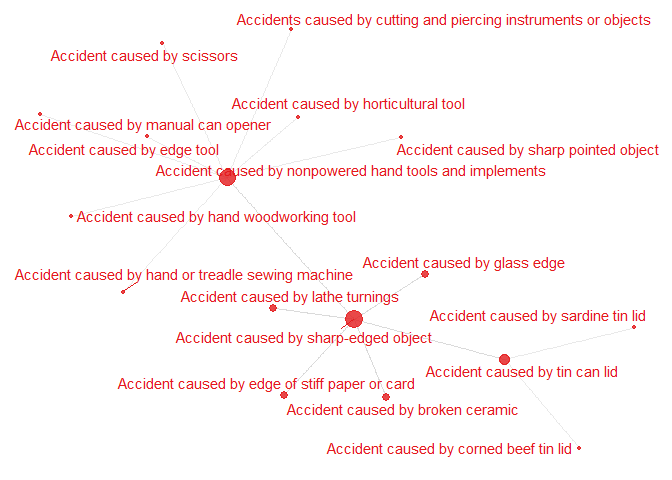
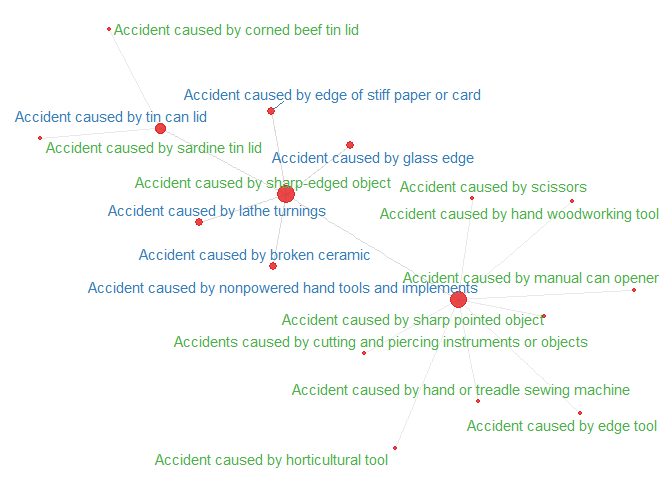
update plot in readme, still struggling to get colouring perfect

diff --git a/README.md b/README.md
@@ -230,7 +230,8 @@ relations <- omop_relations_recursive(4055049L,
                                       r_ids=c('Is a','Subsumes'), 
                                       num_recurse=2) 
 
-omop_graph(relations, saveplot=FALSE, graphtitle=NULL, legendshow=FALSE, nodetxtsize=5)
+omop_graph(relations, saveplot=FALSE, graphtitle=NULL, 
+           legendshow=FALSE, nodetxtsize=5, textcolourvar="recurse_level")
 ```
 
 <img src="man/figures/README-omop_graph-1.png" width="100%" />
